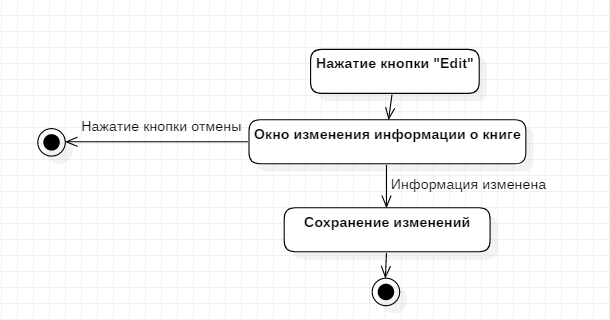
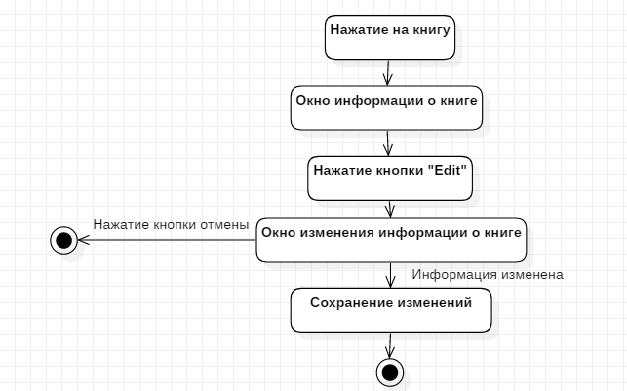
Changed diagrams

Changed region(s): [[0.0623, 0.0312, 0.9033, 1.0]]

diff --git a/docs/diagrams/activity/activities.md b/docs/diagrams/activity/activities.md
@@ -16,11 +16,11 @@
 ![Просмотр информации](https://github.com/valevaty98/Insomnia/blob/master/docs/diagrams/activity/ShowInfo.png)
   
 ### 3. Редактирование информации о книге<a name="3"></a>
-При нажатии кнопки "Edit" откроется окно редактирования введённой ранее информации о книге. Необходимо изменить информацию о книге и нажать кнопку "Ok". При нажати кнопки "Cansel" книга не изменяется и окно редактирования закрывается.
+При нажатии на книгу откроется окно информации о книге. При нажатии кнопки "Edit" откроется окно редактирования введённой ранее информации о книге. Необходимо изменить информацию о книге и нажать кнопку "Ok". При нажати кнопки "Cansel" книга не изменяется и окно редактирования закрывается.
 
 ![Редактирование информации](https://github.com/valevaty98/Insomnia/blob/master/docs/diagrams/activity/Edit.png)
 
 ### 4. Удаление книги из списка<a name="4"></a>
-При нажатии кнопки "Delete" удаляется выбранная книга из списка.
+При нажатии на книгу откроется окно информации о книге. При нажатии кнопки "Delete" удаляется выбранная книга из списка.
 
 ![Удаление книги](https://github.com/valevaty98/Insomnia/blob/master/docs/diagrams/activity/Delete.png)
